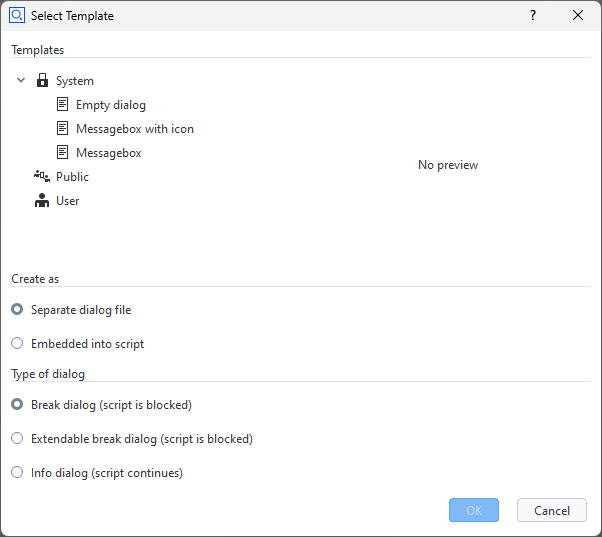
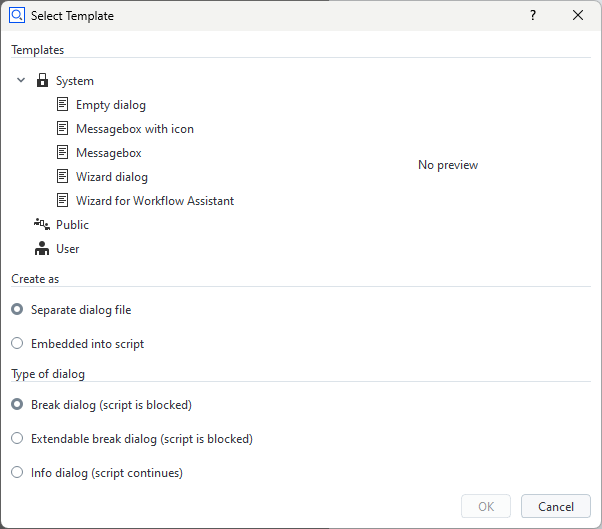
Deploy documentation of '20250625-feat-wizard-widget' to GitHub Pages

diff --git a/20250625-feat-wizard-widget/howtos/user_defined_dialogs/user_defined_dialogs.html b/20250625-feat-wizard-widget/howtos/user_defined_dialogs/user_defined_dialogs.html
@@ -5,7 +5,7 @@
 <head>
   <meta charset="utf-8" /><meta name="viewport" content="width=device-width, initial-scale=1" />
     <link rel="icon" sizes="16x16" type="image/png" href="../../_static/favicon.png">
-    <meta property="article:modified_time" content="2025-06-20T14:54:41+00:00" />
+    <meta property="article:modified_time" content="2025-06-25T13:36:49+00:00" />
   <meta name="viewport" content="width=device-width, initial-scale=1.0" />
   <title>User-defined Dialogs &mdash; App Development Documentation</title>
       <link rel="stylesheet" type="text/css" href="../../_static/pygments.css?v=b86133f3" />
@@ -355,7 +355,7 @@
 
   <div role="contentinfo">
     <p>&#169; Copyright 2025, Carl Zeiss GOM Metrology GmbH.
-      <span class="lastupdated">Last updated on Jun 20, 2025.
+      <span class="lastupdated">Last updated on Jun 25, 2025.
       </span></p>
   </div>
 
@@ -367,7 +367,7 @@
   <div class="footer">
     <a href="https://www.gom.com/en/imprint" target="_blank" rel="noopener noreferrer">Imprint</a>
   </div>
-  <jinja2.runtime.BlockReference object at 0x7f3f7848a430>
+  <jinja2.runtime.BlockReference object at 0x7fc82f916430>
 
 
 </footer>

diff --git a/20250625-feat-wizard-widget/genindex.html b/20250625-feat-wizard-widget/genindex.html
@@ -241,7 +241,7 @@
   <div class="footer">
     <a href="https://www.gom.com/en/imprint" target="_blank" rel="noopener noreferrer">Imprint</a>
   </div>
-  <jinja2.runtime.BlockReference object at 0x7f3f78aaec10>
+  <jinja2.runtime.BlockReference object at 0x7fc82ff342f0>
 
 
 </footer>

diff --git a/20250625-feat-wizard-widget/howtos/adding_workspaces_to_apps/adding_workspaces_to_apps.html b/20250625-feat-wizard-widget/howtos/adding_workspaces_to_apps/adding_workspaces_to_apps.html
@@ -440,7 +440,7 @@
   <div class="footer">
     <a href="https://www.gom.com/en/imprint" target="_blank" rel="noopener noreferrer">Imprint</a>
   </div>
-  <jinja2.runtime.BlockReference object at 0x7f3f7763bc50>
+  <jinja2.runtime.BlockReference object at 0x7fc82eac3c50>
 
 
 </footer>

diff --git a/20250625-feat-wizard-widget/howtos/app_documentation/app_documentation.html b/20250625-feat-wizard-widget/howtos/app_documentation/app_documentation.html
@@ -359,7 +359,7 @@ The ZEISS App Development Environment converts Releasenotes from Markdown to PDF
   <div class="footer">
     <a href="https://www.gom.com/en/imprint" target="_blank" rel="noopener noreferrer">Imprint</a>
   </div>
-  <jinja2.runtime.BlockReference object at 0x7f3f76f68640>
+  <jinja2.runtime.BlockReference object at 0x7fc82e3f0640>
 
 
 </footer>

diff --git a/20250625-feat-wizard-widget/howtos/app_documentation/assets/Releasenotes.html b/20250625-feat-wizard-widget/howtos/app_documentation/assets/Releasenotes.html
@@ -205,7 +205,7 @@
   <div class="footer">
     <a href="https://www.gom.com/en/imprint" target="_blank" rel="noopener noreferrer">Imprint</a>
   </div>
-  <jinja2.runtime.BlockReference object at 0x7f3f76dec290>
+  <jinja2.runtime.BlockReference object at 0x7fc82e474290>
 
 
 </footer>

diff --git a/20250625-feat-wizard-widget/howtos/app_file_format/app_file_format.html b/20250625-feat-wizard-widget/howtos/app_file_format/app_file_format.html
@@ -603,7 +603,7 @@ the menu hierarchy is created from the script’s path within the App’s <code 
   <div class="footer">
     <a href="https://www.gom.com/en/imprint" target="_blank" rel="noopener noreferrer">Imprint</a>
   </div>
-  <jinja2.runtime.BlockReference object at 0x7f3f77510c00>
+  <jinja2.runtime.BlockReference object at 0x7fc82e998c00>
 
 
 </footer>

diff --git a/20250625-feat-wizard-widget/howtos/faq/faq.html b/20250625-feat-wizard-widget/howtos/faq/faq.html
@@ -596,7 +596,7 @@ where <code class="docutils literal notranslate"><span class="pre">%APPDATA</spa
   <div class="footer">
     <a href="https://www.gom.com/en/imprint" target="_blank" rel="noopener noreferrer">Imprint</a>
   </div>
-  <jinja2.runtime.BlockReference object at 0x7f3f76f6cd50>
+  <jinja2.runtime.BlockReference object at 0x7fc82e3f4d50>
 
 
 </footer>

diff --git a/20250625-feat-wizard-widget/howtos/localization/localization.html b/20250625-feat-wizard-widget/howtos/localization/localization.html
@@ -377,7 +377,7 @@
   <div class="footer">
     <a href="https://www.gom.com/en/imprint" target="_blank" rel="noopener noreferrer">Imprint</a>
   </div>
-  <jinja2.runtime.BlockReference object at 0x7f3f7707e3f0>
+  <jinja2.runtime.BlockReference object at 0x7fc82e50a3f0>
 
 
 </footer>

diff --git a/20250625-feat-wizard-widget/howtos/project_keywords/project_keywords.html b/20250625-feat-wizard-widget/howtos/project_keywords/project_keywords.html
@@ -236,7 +236,7 @@
   <div class="footer">
     <a href="https://www.gom.com/en/imprint" target="_blank" rel="noopener noreferrer">Imprint</a>
   </div>
-  <jinja2.runtime.BlockReference object at 0x7f3f76e22890>
+  <jinja2.runtime.BlockReference object at 0x7fc82e2ee890>
 
 
 </footer>

diff --git a/20250625-feat-wizard-widget/howtos/python_api_introduction/file_selection_dialog.html b/20250625-feat-wizard-widget/howtos/python_api_introduction/file_selection_dialog.html
@@ -259,7 +259,7 @@
   <div class="footer">
     <a href="https://www.gom.com/en/imprint" target="_blank" rel="noopener noreferrer">Imprint</a>
   </div>
-  <jinja2.runtime.BlockReference object at 0x7f3f78623650>
+  <jinja2.runtime.BlockReference object at 0x7fc82fa97650>
 
 
 </footer>

diff --git a/20250625-feat-wizard-widget/howtos/python_api_introduction/python_api_introduction.html b/20250625-feat-wizard-widget/howtos/python_api_introduction/python_api_introduction.html
@@ -521,7 +521,7 @@ context.stage = current_stage
   <div class="footer">
     <a href="https://www.gom.com/en/imprint" target="_blank" rel="noopener noreferrer">Imprint</a>
   </div>
-  <jinja2.runtime.BlockReference object at 0x7f3f7828aa40>
+  <jinja2.runtime.BlockReference object at 0x7fc8301ef1d0>
 
 
 </footer>

diff --git a/20250625-feat-wizard-widget/howtos/python_api_introduction/selecting_elements.html b/20250625-feat-wizard-widget/howtos/python_api_introduction/selecting_elements.html
@@ -442,7 +442,7 @@ that match any of the filters (disjunction / OR):</p>
   <div class="footer">
     <a href="https://www.gom.com/en/imprint" target="_blank" rel="noopener noreferrer">Imprint</a>
   </div>
-  <jinja2.runtime.BlockReference object at 0x7f3f76e15c70>
+  <jinja2.runtime.BlockReference object at 0x7fc82e2e5c70>
 
 
 </footer>